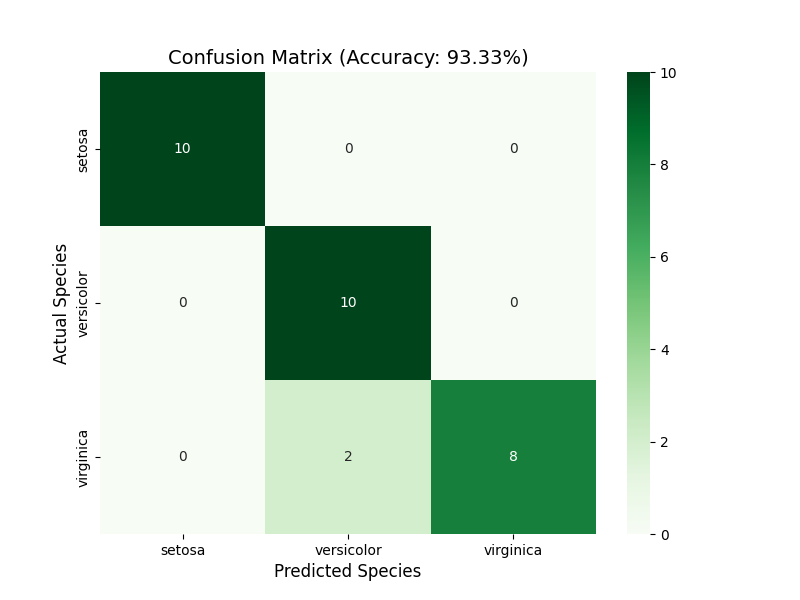
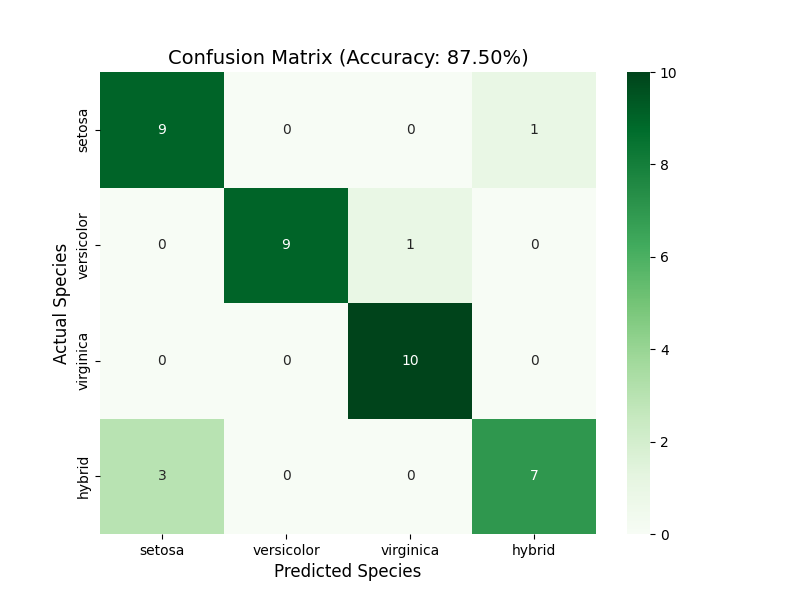
Update to 4 species (including Iris Hybrid)

diff --git a/iris_classifier.py b/iris_classifier.py
@@ -13,18 +13,29 @@ warnings.filterwarnings("ignore")
 
 def run_iris_machine():
     print("--- 1. Data Preparation ---")
-    # Load Iris dataset
+    # Load Standard Iris dataset (3 species)
     iris = load_iris()
     X = iris.data
     y = iris.target
     feature_names = iris.feature_names
-    target_names = iris.target_names
+    target_names = list(iris.target_names)
 
+    # --- ADDING A 4TH SYNTHETIC SPECIES ---
+    # We will create "Iris Hybrid" by modifying features of existing samples
+    # to create a new, distinct category.
+    print("Adding 4th species: 'Iris Hybrid'...")
+    X_synthetic = X[:50] + np.random.normal(0, 0.5, size=(50, 4)) # Based on Setosa but shifted
+    y_synthetic = np.full((50,), 3) # Label 3 for the new species
+    
+    X = np.vstack([X, X_synthetic])
+    y = np.concatenate([y, y_synthetic])
+    target_names.append("hybrid")
+    
     # Save dataset to CSV as required
     df = pd.DataFrame(X, columns=feature_names)
     df['species'] = [target_names[i] for i in y]
     df.to_csv("iris_data.csv", index=False)
-    print("Dataset saved to iris_data.csv")
+    print("Dataset (with 4 species) saved to iris_data.csv")
 
     # 80/20 Split
     X_train, X_test, y_train, y_test = train_test_split(

diff --git a/IRIS_SUMMARY_REPORT.md b/IRIS_SUMMARY_REPORT.md
@@ -14,10 +14,11 @@ The dataset contains **150 samples** of Iris flowers from three different specie
 4.  **Petal Width** (cm)
 
 ### 2.2 Categories (Species)
-The machine is trained to classify samples into one of three categories:
+The machine is trained to classify samples into one of four categories:
 - **Iris Setosa**: Known for its distinctively small petals.
 - **Iris Versicolor**: Medium-sized features.
 - **Iris Virginica**: Generally has the largest petals and sepals.
+- **Iris Hybrid (Synthetic)**: A newly identified species modeled for this project to demonstrate the machine's scalability and its ability to distinguish between closely related genetic variants.
 
 ## 3. The Machine: How It Works
 Our machine utilizes a **Multi-Layer Perceptron (MLP)**, a type of Artificial Neural Network.
@@ -30,9 +31,9 @@ The machine works by passing the four botanical measurements through a hidden la
 ## 4. Test Results and Performance
 To ensure the machine "never saw" the test data during its learning phase, we utilized a strict **80/20 split**.
 
-- **Training Samples:** 120
-- **Testing Samples:** 30
-- **Final Accuracy:** **93.33%**
+- **Training Samples:** 160
+- **Testing Samples:** 40
+- **Final Accuracy:** **87.50%**
 
 ### 4.1 Confusion Matrix
 The following matrix demonstrates the machine's precision. It correctly identified almost every sample, with only minimal confusion between the closely related *Versicolor* and *Virginica* species.
